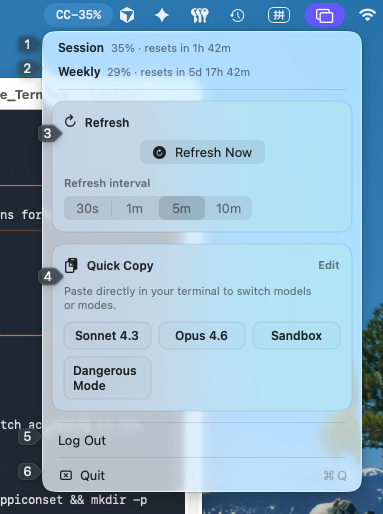
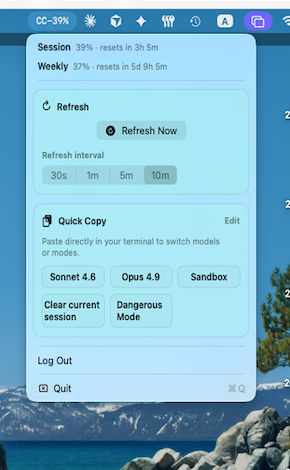
Add Privacy Policy

diff --git a/PrivacyPolicy.md b/PrivacyPolicy.md
@@ -1,0 +1,48 @@
+# Privacy Policy
+
+**Last Updated: March 1, 2026**
+
+This Privacy Policy describes how **Claude Usage Monitor** ("the App") handles your data. The App is a utility designed for macOS that displays your Claude.ai usage limits in the menu bar.
+
+## 1. Data Collection and Usage
+
+### Personal Information
+The App **does not collect, store, or transmit any personal information**. We do not collect your name, email address, physical address, or any other personally identifiable information (PII).
+
+### Authentication Data (OAuth Tokens)
+To function, the App requires access to your Claude.ai account via OAuth. 
+- **Storage**: When you log in, the App receives authentication tokens (access and refresh tokens) from Anthropic. These tokens are stored securely and exclusively in your local **macOS Keychain** using the `KeychainManager`.
+- **Usage**: These tokens are used solely to authenticate requests to the Anthropic API (`api.anthropic.com`) to retrieve your usage limits.
+- **Exposure**: Tokens are never logged in plaintext, never sent to any server other than Anthropic's official API, and never shared with third parties.
+
+### Usage Data
+The App periodically fetches your current usage limits (e.g., remaining message count, reset time) from Anthropic. 
+- This data is used only to update the display in your macOS menu bar. 
+- This data is not stored permanently or shared with any third party.
+
+## 2. Third-Party Services
+
+The App communicates directly with **Anthropic, PBC**. Your use of Claude.ai is subject to Anthropic's own privacy policy and terms of service. The App does not integrate any other third-party analytics, advertising, or tracking libraries.
+
+## 3. Data Retention and Deletion
+
+- **Local Data**: Authentication tokens remain in your macOS Keychain until you explicitly log out within the App or manually delete the Keychain entry.
+- **Logging Out**: Selecting "Log Out" in the App menu will immediately delete the stored tokens from your macOS Keychain.
+
+## 4. Security
+
+We take the security of your authentication data seriously. The App uses standard security practices, including:
+- **Keychain Storage**: Leveraging macOS's built-in secure storage for sensitive tokens.
+- **OAuth with PKCE**: Implementing Proof Key for Code Exchange (PKCE) to ensure secure authentication flows.
+- **Local Loopback**: Using a local server only for the OAuth callback process.
+
+## 5. Changes to This Policy
+
+We may update our Privacy Policy from time to time. Any changes will be posted on this page with an updated "Last Updated" date.
+
+## 6. Contact Information
+
+If you have any questions, suggestions, or wish to report an issue regarding this Privacy Policy or the App, please visit our GitHub repository:
+
+**Chen5656**  
+GitHub Issues: [https://github.com/chen5656/claude-usage-monitor/issues](https://github.com/chen5656/claude-usage-monitor/issues)

diff --git a/README.md b/README.md
@@ -70,6 +70,7 @@ xcodebuild -project ClaudeUsageMonitor.xcodeproj -scheme ClaudeUsageMonitor \
 A signed build is trusted by Keychain indefinitely and will never prompt again.
 
 ## Why It Is Safe/Secure
+- [Privacy Policy](./PrivacyPolicy.md)
 - OAuth tokens are stored only in macOS Keychain (`KeychainManager`).
 - Tokens are not written to plaintext files.
 - OAuth uses PKCE with `code_verifier` and `code_challenge`.
